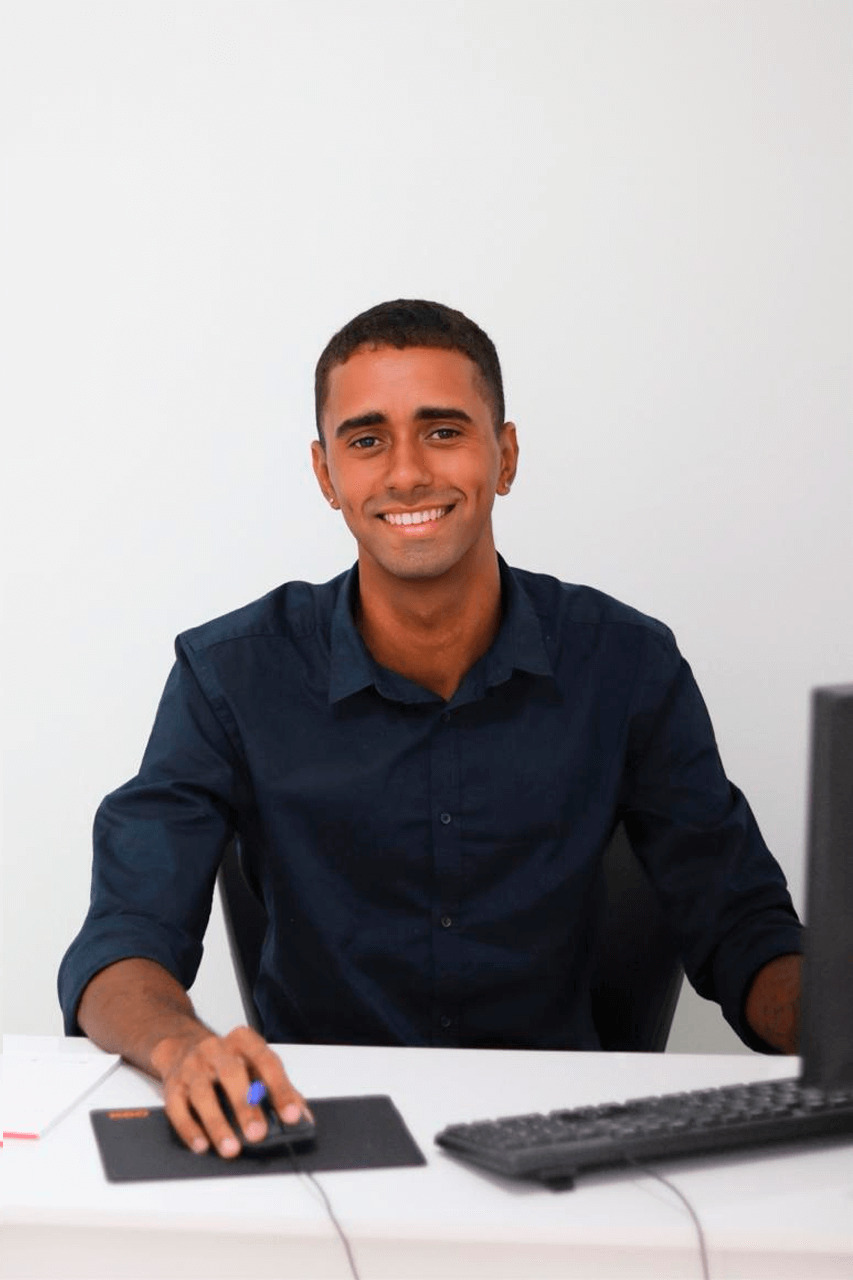
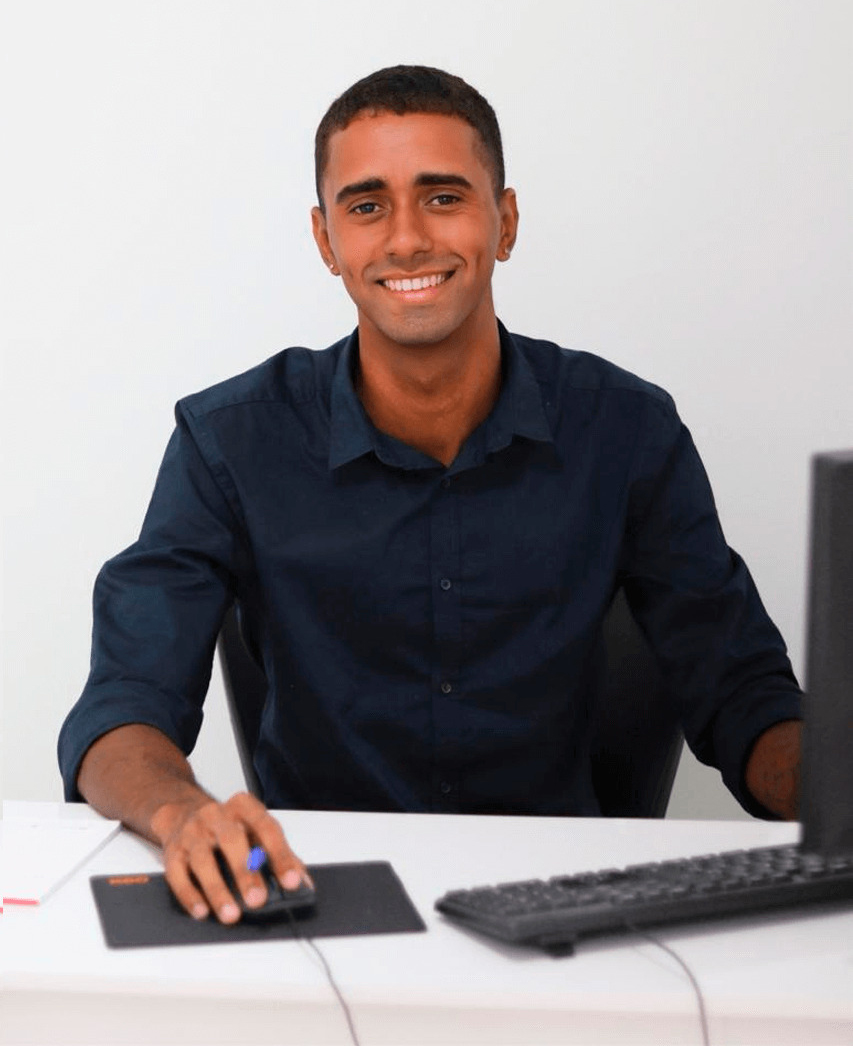
Sobre mim

diff --git a/index.html b/index.html
@@ -91,15 +91,17 @@
           </div>
         </div>
         <div class="row">
-          <div class="col-md-8">
+          <div class="col-md-6">
             <h3>Prazer, meu nome é Fabrício.</h3>
             <p>Sou psicólogo clínico, registrado no Conselho Federal de Psicologia (CRP: 05/68084) e estarei com você nessa jornada de autoconhecimento.<p>
             <p>Atualmente sou pós-graduado em Análise do Comportamento Aplicada (ABA), formando em pós-graduação como especialista clínico em Terapia Cognitivo Comportamental e utilizo a teoria integrativa da Terapia dos Esquemas, que conversa com todas as abordagens citadas.</p>
             <p>Ao longo da minha carreira na psicologia, tive a oportunidade de me envolver nas áreas social, organizacional, escolar e, principalmente, na clínica, o que contribuiu para uma experiência ampla em diversos contextos nos quais um indivíduo pode estar vivendo. Assim, adquiri uma visão mais abrangente dos principais causadores das nossas angústias.</p>
             <p>Entendo que começar o processo terapêutico pode ser um desafio, mas é um passo corajoso para resolver conflitos e se conectar consigo mesmo.</p>
             <p>Lembre-se de que todo início é fundamental, aprimore seus relacionamentos com a ajuda de uma terapia eficaz.</p>
+            <h2 style="display: inline-block; padding-left: 21px; margin-top: 50px;"><small>Ficou com alguma dúvida?</small></h2>
+            <a class="btn btn-primary" class="nav-link" style="margin-bottom: 6px; margin-left: 21px" href="https://api.whatsapp.com/send/?phone=5522997192323&text&type=phone_number&app_absent=0" target="_blank">Mande uma mensagem</a>
           </div>
-          <div class="col-md-4">
+          <div class="col-md-6">
             <img src="img/4.jpg" class="img-fluid" alt="Descrição da Imagem" />
           </div>
         </div>

diff --git a/css/custom.css b/css/custom.css
@@ -333,14 +333,21 @@ section {
 .sobre-sec p {
 	line-height: 22px;
 	margin-top: 13px;
-	padding: 0 21px;
-	padding-right: 180px;
+	padding-left: 21px;
+	padding-right: 0px;
 	text-align: justify;
 }
 .sobre-sec .service-block {
 	margin-top: 30px;
     text-align: center;
 }
+.img-fluid {
+	max-width: 85%;
+	height: auto;
+	margin-left: 15%;
+	margin-bottom: 20px;
+}
+
 /* ABOUT SECTION
 -------------------------------------------------- */
 .about-sec {
@@ -376,6 +383,7 @@ section {
 	display: block;
 	text-transform: initial;
 }
+
 /* BLOG SECTION
 -------------------------------------------------- */
 /* Estilos existentes que ainda são necessários */
